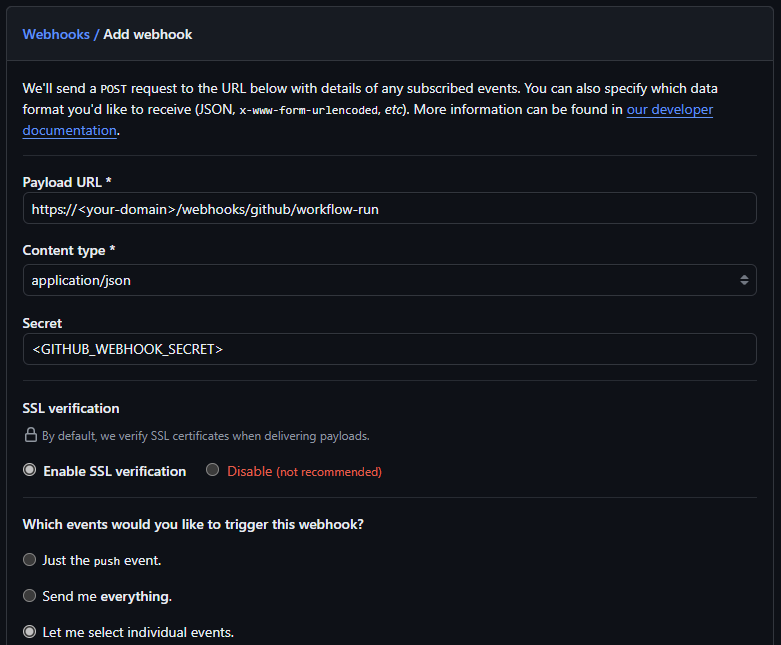
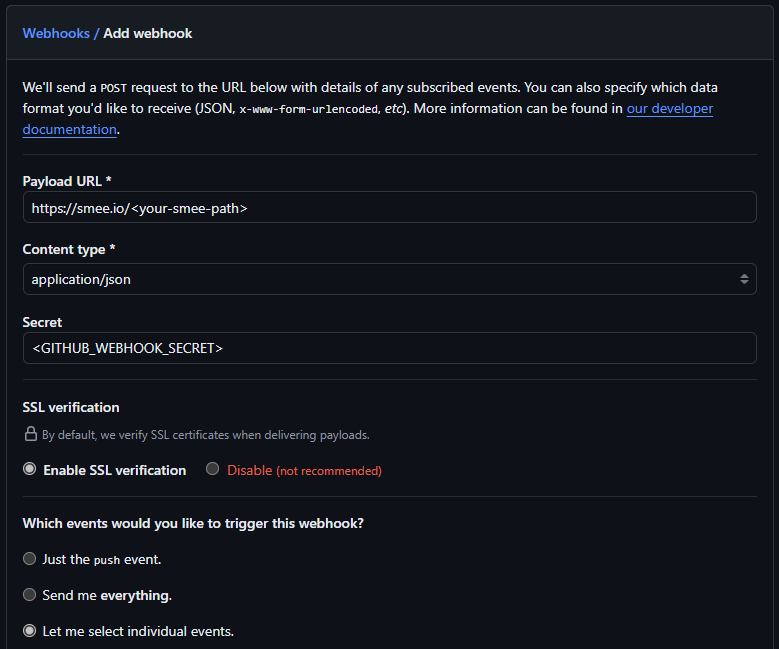
feat: update app status on webhook event
Add githubWorkflowJobId and githubWorkflowRunId to apps table.
Add smee.io script.

diff --git a/src/pages/webhooks/github/workflow-job.ts b/src/pages/webhooks/github/workflow-job.ts
@@ -1,0 +1,58 @@
+import { Webhooks } from "@octokit/webhooks"
+import type { APIContext } from "astro"
+
+export async function POST(context: APIContext): Promise<Response> {
+  const webhooks = new Webhooks({
+    secret: context.locals.runtime.env.GITHUB_WEBHOOK_SECRET,
+  })
+
+  webhooks.on("workflow_job.in_progress", async (data) => {
+    // steps[1] isn't consistently included in workflow_job.in_progress
+    // so we can't reliable get appId + jobId + runId until workflow_job.completed
+    if (data.payload.workflow_job.steps[1]) {
+      const appId = data.payload.workflow_job.steps[1].name
+      const jobId = String(data.payload.workflow_job.id)
+      const runId = String(data.payload.workflow_job.run_id)
+
+      const info = await context.locals.runtime.env.DB.prepare(
+        "UPDATE apps SET githubWorkflowJobId = ?1, githubWorkflowRunId = ?2 WHERE id = ?3",
+      )
+        .bind(jobId, runId, appId)
+        .run()
+      console.log(info)
+    }
+  })
+
+  webhooks.on("workflow_job.completed", async (data) => {
+    const appId = data.payload.workflow_job.steps[1].name
+    const jobId = String(data.payload.workflow_job.id)
+    const runId = String(data.payload.workflow_job.run_id)
+    const status =
+      data.payload.workflow_job.conclusion === "success" ? "deployed" : "failed"
+
+    const info = await context.locals.runtime.env.DB.prepare(
+      "UPDATE apps SET githubWorkflowJobId = ?1, githubWorkflowRunId = ?2, status = ?3 WHERE id = ?4",
+    )
+      .bind(jobId, runId, status, appId)
+      .run()
+    console.log(info)
+  })
+
+  try {
+    const body = await context.request.text()
+    const eventName = context.request.headers.get("x-github-event")
+    const signature = context.request.headers.get("x-hub-signature-256")
+    console.log({ body, eventName, signature })
+    await webhooks.verifyAndReceive({
+      id: context.request.headers.get("x-github-delivery"),
+      name: eventName,
+      signature: signature,
+      payload: body,
+    })
+
+    return new Response("Event processed", { status: 200 })
+  } catch (error) {
+    console.error("Error handling webhook", error)
+    return new Response("Error processing event", { status: 500 })
+  }
+}

diff --git a/README.md b/README.md
@@ -77,6 +77,7 @@ All commands are run from the root of the project, from a terminal:
 | `pnpm run preview`         | Preview your build locally, before deploying     |
 | `pnpm run astro ...`       | Run CLI commands like `astro add`, `astro check` |
 | `pnpm run astro -- --help` | Get help using the Astro CLI                     |
+| `pnpm run smee`            | Start a local webhook proxy with [Smee.io](https://smee.io/) |
 
 ## 👀 Want to learn more?
 
